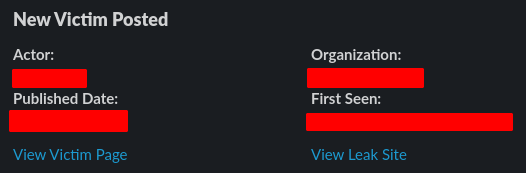
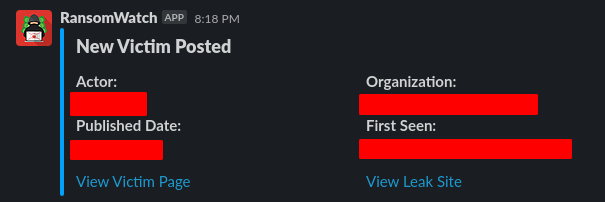
updated screenshots in readme

Changed region(s): [[0.0, 0.0289, 0.3954, 0.9827], [0.5779, 0.289, 0.9734, 0.8092], [0.5779, 0.8382, 0.7909, 0.9249]]

diff --git a/README.md b/README.md
@@ -2,7 +2,7 @@
 
 Ransomware leak site monitoring tool. It will scrap all of the entries on various ransomware leak sites, store the data in a SQLite database, and send notifications via Slack when a new victim shows up, or when a victim is removed.
 
-## Configuration:
+## Configuration
 
 Please copy `config.sample.yaml` to `config.yaml`, and add the following:
 
@@ -16,7 +16,7 @@ Additionally, there are a few environment variables you may need to set:
 
 These are both set in the provided `docker-compose.yaml`. If you prefer, you can modify the `Dockerfile` and use a volume to provide the `config.yaml` if you don't want to bake it in.
 
-## Usage:
+## Usage
 
 This is intended to be run via a cronjob on whatever increment you decide to use.
 
@@ -28,17 +28,26 @@ Example crontab entry (running every 8 hours):
 
 (make sure to build it first, `docker-compose build`)
 
-This is an example of a Slack notification for a new victim:
+## Example Slack Messages
+
+New victim:
 
 ![Slack notification for new victim](/img/slack_example_new_victim.png)
 
-This is an example of a Slack notification for a removed victim:
+Removed victim:
 
-![Slack notification for new victim](/img/slack_example_removed_victim.png)
+![Slack notification for removed victim](/img/slack_example_removed_victim.png)
 
-Notifications are also sent to Slack when an exception is unhandled in the code, or when a site is down.
+Site down:
 
-## Leak Site Implementations:
+![Slack notification for site down](/img/slack_example_site_down.png)
+
+Error:
+
+![Slack notification for an error](/img/slack_example_error.png)
+
+
+## Leak Site Implementations
 
 The following leak sites are (planned to be) supported:
 
